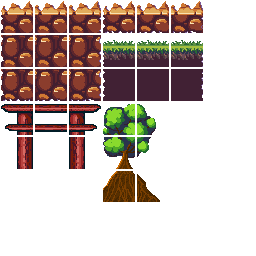
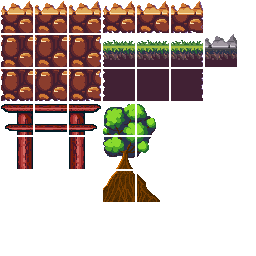
moutain outro

Changed region(s): [[0.7812, 0.125, 0.9375, 0.2812]]

diff --git a/public_html/scenes/moutain_outro_level.js b/public_html/scenes/moutain_outro_level.js
@@ -1,0 +1,232 @@
+import Scene from "./scene.js"
+import Playnewton from "../playnewton.js"
+import Sara from "../entities/sara.js"
+import Collectible from "../entities/collectible.js"
+import Flower from "../entities/flower.js"
+import Z_ORDER from "../utils/z_order.js"
+import Fadeout from "../entities/fadeout.js"
+import HueRotate from "../entities/huerotate.js"
+import Witch from "../entities/witch.js"
+
+export default class MoutainOutroLevel extends Scene {
+
+    /**
+     * @type Sara
+     */
+    sara;
+
+    /**
+     * @type Witch
+     */
+    witch;
+
+    /**
+     * @type Flower[]
+     */
+    flowers = [];
+
+    /**
+     * @type string
+     */
+    mapPath;
+
+    /**
+     * @type Scene
+     */
+    nextSceneOnExit;
+
+    /**
+     * @type Fadeout
+     */
+    fadeout;
+
+    /**
+     * @type HueRotate
+     */
+    hueRotate;
+
+    skippable = false;
+
+    constructor(mapPath, nextSceneOnExit) {
+        super();
+        this.mapPath = mapPath;
+        this.nextSceneOnExit = nextSceneOnExit;
+    }
+
+    async InitSara() {
+        await Sara.Preload();
+    }
+
+    async InitCollectibles(map) {
+        await Collectible.Preload();
+        await Flower.Preload();
+        Playnewton.DRIVE.ForeachTmxMapObject(
+            (object, objectgroup, x, y) => {
+                if (object.tile) {
+                    switch (object.tile.properties.get("type")) {
+                        case "sara":
+                            if (!this.sara) {
+                                this.sara = new Sara(x, y);
+                            }
+                            break;
+                        case "flower":
+                            let flower = new Flower(x, y);
+                            this.flowers.push(flower);
+                            break;
+                        case "witch":
+                            if (!this.witch) {
+                                this.witch = new Witch(x, y);
+                            }
+                            break;
+                    }
+                }
+            },
+            map);
+
+    }
+
+    async InitMoutainOutroLevels() {
+        let skyBitmap = await Playnewton.DRIVE.LoadBitmap("sprites/sky.png");
+
+        let map = await Playnewton.DRIVE.LoadTmxMap(this.mapPath);
+
+        let skySprite = Playnewton.GPU.CreateSprite();
+        Playnewton.GPU.SetSpritePicture(skySprite, Playnewton.GPU.CreatePicture(skyBitmap));
+        Playnewton.GPU.SetSpritePosition(skySprite, 0, 0);
+        Playnewton.GPU.EnableSprite(skySprite);
+
+        Playnewton.PPU.SetWorldBounds(0, 0, 1024, 576);
+        Playnewton.PPU.SetWorldGravity(0, 1);
+
+        Playnewton.DRIVE.ConvertTmxMapToGPUSprites(Playnewton.GPU, map, 0, 0, Z_ORDER.BACKGROUND);
+        Playnewton.DRIVE.ConvertTmxMapToPPUBodies(Playnewton.PPU, map, 0, 0);
+
+        await this.InitCollectibles(map);
+    }
+
+    async Start() {
+        await super.Start();
+
+        this.progress = 0;
+
+        for (let z = Z_ORDER.MIN; z <= Z_ORDER.MAX; ++z) {
+            let layer = Playnewton.GPU.GetLayer(z);
+            Playnewton.GPU.EnableLayer(layer);
+        }
+        this.progress = 20;
+
+        await this.InitSara();
+        this.progress = 50;
+
+        await Witch.Preload();
+        this.properties = 75
+
+        await this.InitMoutainOutroLevels();
+        this.progress = 100;
+
+        this.InitSkipLabel()
+    }
+
+    InitSkipLabel() {
+        let label = Playnewton.GPU.HUD.CreateLabel()
+        Playnewton.GPU.HUD.SetLabelFont(label, "bold 12px monospace")
+        Playnewton.GPU.HUD.SetLabelAlign(label, "right")
+        Playnewton.GPU.HUD.SetLabelPosition(label, 1024, 564)
+        Playnewton.GPU.HUD.SetLabelColor(label, "#eeeeee")
+        Playnewton.GPU.HUD.SetLabelText(label, "Skip with ⌨F1 or 🎮start")
+        Playnewton.GPU.HUD.EnableLabel(label)
+    }
+
+    UpdateBodies() {
+        this.sara.UpdateBody();
+        this.witch.UpdateBody();
+    }
+
+    UpdateSprites() {
+        this.sara.UpdateSprite();
+        this.witch.UpdateSprite();
+
+        this.witch.Pursue(this.sara);
+
+        this.flowers = this.flowers.filter((flower) => {
+            if (flower.Pursue(this.sara.sprite)) {
+                flower.Free();
+                return false;
+            } else {
+                return true;
+            }
+        });
+        if (this.flowers.length === 0 && !this.hueRotate) {
+            let layers = [];
+            for (let i = Z_ORDER.MIN; i <= Z_ORDER.MAX; ++i) {
+                layers.push(i);
+            }
+            this.hueRotate = new HueRotate(layers, async () => {
+                this.witch.fly();
+                let label = Playnewton.GPU.HUD.CreateLabel();
+                Playnewton.GPU.HUD.SetLabelFont(label, "bold 32px monospace");
+
+                Playnewton.GPU.HUD.SetLabelAlign(label, "left");
+                Playnewton.GPU.HUD.SetLabelPosition(label, 32, 532);
+                Playnewton.GPU.HUD.EnableLabel(label);
+
+                Playnewton.GPU.HUD.SetLabelColor(label, "#e0befb");
+                await Playnewton.GPU.HUD.StartLabelTypewriterEffect(label, "[Witch] Sara ! You found the flower !");
+                await Playnewton.delay(2000);
+                Playnewton.GPU.HUD.SetLabelColor(label, "#8fffff");
+                await Playnewton.GPU.HUD.StartLabelTypewriterEffect(label, "[Sara] Am I cured ?");
+                await Playnewton.delay(2000);
+                Playnewton.GPU.HUD.SetLabelColor(label, "#e0befb");
+                await Playnewton.GPU.HUD.StartLabelTypewriterEffect(label, "[Witch] Yes ! No need for a prince charming !");
+                await Playnewton.delay(2000);
+                Playnewton.GPU.HUD.SetLabelColor(label, "#8fffff");
+                await Playnewton.GPU.HUD.StartLabelTypewriterEffect(label, "[Sara] You can invoke a prince charming ?");
+                await Playnewton.delay(2000);
+                Playnewton.GPU.HUD.SetLabelColor(label, "#e0befb");
+                await Playnewton.GPU.HUD.StartLabelTypewriterEffect(label, "[Witch] No, but I can disappear.");
+                await Playnewton.delay(2000);
+                Playnewton.GPU.HUD.SetLabelColor(label, "#8fffff");
+                await Playnewton.GPU.HUD.StartLabelTypewriterEffect(label, "[Sara] By running away ?");
+                await Playnewton.delay(2000);
+                Playnewton.GPU.HUD.SetLabelColor(label, "#e0befb");
+                await Playnewton.GPU.HUD.StartLabelTypewriterEffect(label, "[Witch] Oh you know the trick...");
+                await Playnewton.delay(2000);
+                Playnewton.GPU.HUD.SetLabelColor(label, "#ffffff");
+                Playnewton.GPU.HUD.SetLabelPosition(label, 512, 532);
+                Playnewton.GPU.HUD.SetLabelAlign(label, "center");
+                await Playnewton.GPU.HUD.StartLabelTypewriterEffect(label, "THE END", 200);
+                await Playnewton.delay(2000);
+            });
+        }
+
+        let pad = Playnewton.CTRL.GetPad(0);
+        if(!pad.start) {
+            this.skippable = true;
+        }
+        if (this.skippable && pad.start) {
+            this.fadeoutToNextLevel();
+        }
+
+        if (this.hueRotate) {
+            this.hueRotate.Update();
+        }
+
+        if (this.fadeout) {
+            this.fadeout.Update();
+        }
+    }
+
+    fadeoutToNextLevel() {
+        if (!this.fadeout) {
+            let layers = [];
+            for (let i = Z_ORDER.MIN; i <= Z_ORDER.MAX; ++i) {
+                layers.push(i);
+            }
+            this.fadeout = new Fadeout(1000, layers, () => {
+                this.Stop();
+                this.nextScene = this.nextSceneOnExit;
+                this.nextSceneOnExit.Start();
+            });
+        }
+    }
+}

diff --git a/public_html/entities/flower.js b/public_html/entities/flower.js
@@ -6,7 +6,7 @@ import Collectible from "./collectible.js"
  * @readonly
  * @enum {number}
  */
-const AppleState = {
+const FlowerState = {
     IDLE: 1,
     PURSUE: 2
 };
@@ -14,15 +14,15 @@ const AppleState = {
 const PURSUE_START_DISTANCE = 64;
 const PURSUE_DONE_DISTANCE = 8;
 const PURSUE_SPEED = 2;
-        
-class AppleAnimations {
+
+class FlowerAnimations {
     /**
      * @type GPU_SpriteAnimation
      */
     idle;
 }
 
-export default class Apple {
+export default class Flower {
     /**
      * 
      * @type GPU_Sprite
@@ -32,27 +32,19 @@ export default class Apple {
     /**
      *  @type SaraState
      */
-    state = AppleState.IDLE;
+    state = FlowerState.IDLE;
 
-    static animations = new AppleAnimations();
+    static animations = new FlowerAnimations();
 
     static async Preload() {
         let bitmap = Collectible.bitmap;
 
         let spriteset = Playnewton.GPU.CreateSpriteset(bitmap, [
-            {name: "apple1", x: 44, y: 106, w: 8, h: 10},
-            {name: "apple2", x: 76, y: 106, w: 8, h: 10},
-            {name: "apple3", x: 108, y: 106, w: 8, h: 10},
-            {name: "apple4", x: 140, y: 106, w: 8, h: 10}
+            {name: "flower1", x: 8, y: 97, w: 16, h: 30},
         ]);
 
-        Apple.animations.idle = Playnewton.GPU.CreateAnimation(spriteset, [
-            {name: "apple1", delay: 100},
-            {name: "apple2", delay: 100},
-            {name: "apple3", delay: 100},
-            {name: "apple4", delay: 100},
-            {name: "apple3", delay: 100},
-            {name: "apple2", delay: 100}
+        Flower.animations.idle = Playnewton.GPU.CreateAnimation(spriteset, [
+            {name: "flower1", delay: 100}
         ]);
     }
 
@@ -63,8 +55,8 @@ export default class Apple {
      */
     constructor(x, y) {
         this.sprite = Playnewton.GPU.CreateSprite();
-        Playnewton.GPU.SetSpriteAnimation(this.sprite, Apple.animations.idle);
-        Playnewton.GPU.SetSpritePosition(this.sprite, x + 16, y - 32 + this.sprite.height);
+        Playnewton.GPU.SetSpriteAnimation(this.sprite, Flower.animations.idle);
+        Playnewton.GPU.SetSpritePosition(this.sprite, x + 16, y - 32);
         Playnewton.GPU.SetSpriteZ(this.sprite, Z_ORDER.COLLECTIBLES);
         Playnewton.GPU.EnableSprite(this.sprite);
     }
@@ -79,8 +71,8 @@ export default class Apple {
         if (distance < PURSUE_DONE_DISTANCE) {
             return true;
         }
-        if (this.state == AppleState.PURSUE || distance < PURSUE_START_DISTANCE) {
-            this.state = AppleState.PURSUE;
+        if (this.state == FlowerState.PURSUE || distance < PURSUE_START_DISTANCE) {
+            this.state = FlowerState.PURSUE;
             let speed = PURSUE_SPEED / distance;
             dx *= speed;
             dy *= speed;

diff --git a/public_html/scenes/title.js b/public_html/scenes/title.js
@@ -2,6 +2,7 @@ import Scene from "./scene.js"
 import Playnewton from "../playnewton.js"
 import Level from "./level.js"
 import MoutainIntroLevel from "./moutain_intro_level.js";
+import MoutainOutroLevel from "./moutain_outro_level.js";
 
 export default class Title extends Scene {
 
@@ -48,12 +49,13 @@ export default class Title extends Scene {
         let pad = Playnewton.CTRL.GetPad(0);
         if(pad.start && this.nextScene === this) {
             this.Stop();
-            let scene = this;
-            for(let n = 5; n >= 1; --n) {
+            let scene = new MoutainOutroLevel("maps/mountain/mountain_outro.tmx", this);
+            /*for(let n = 5; n >= 1; --n) {
                 let level = new Level(`maps/mountain/mountain_${n}.tmx`, scene);
                 scene = level;
-            }
-            this.nextScene = new MoutainIntroLevel("maps/mountain/mountain_intro.tmx", scene);
+            }*/
+            this.nextScene = scene;
+            //this.nextScene = new MoutainIntroLevel("maps/mountain/mountain_intro.tmx", scene);
             this.nextScene.Start();
         }
     }

diff --git a/public_html/maps/mountain/collectibles.tsx b/public_html/maps/mountain/collectibles.tsx
@@ -1,5 +1,5 @@
 <?xml version="1.0" encoding="UTF-8"?>
-<tileset version="1.4" tiledversion="1.4.2" name="collectibles" tilewidth="32" tileheight="32" tilecount="64" columns="8">
+<tileset version="1.2" tiledversion="1.3.3" name="collectibles" tilewidth="32" tileheight="32" tilecount="64" columns="8">
  <image source="../../sprites/collectibles.png" width="256" height="256"/>
  <tile id="0">
   <properties>
@@ -14,6 +14,11 @@
  <tile id="16">
   <properties>
    <property name="type" value="exit"/>
+  </properties>
+ </tile>
+ <tile id="24">
+  <properties>
+   <property name="type" value="flower"/>
   </properties>
  </tile>
  <tile id="25">
